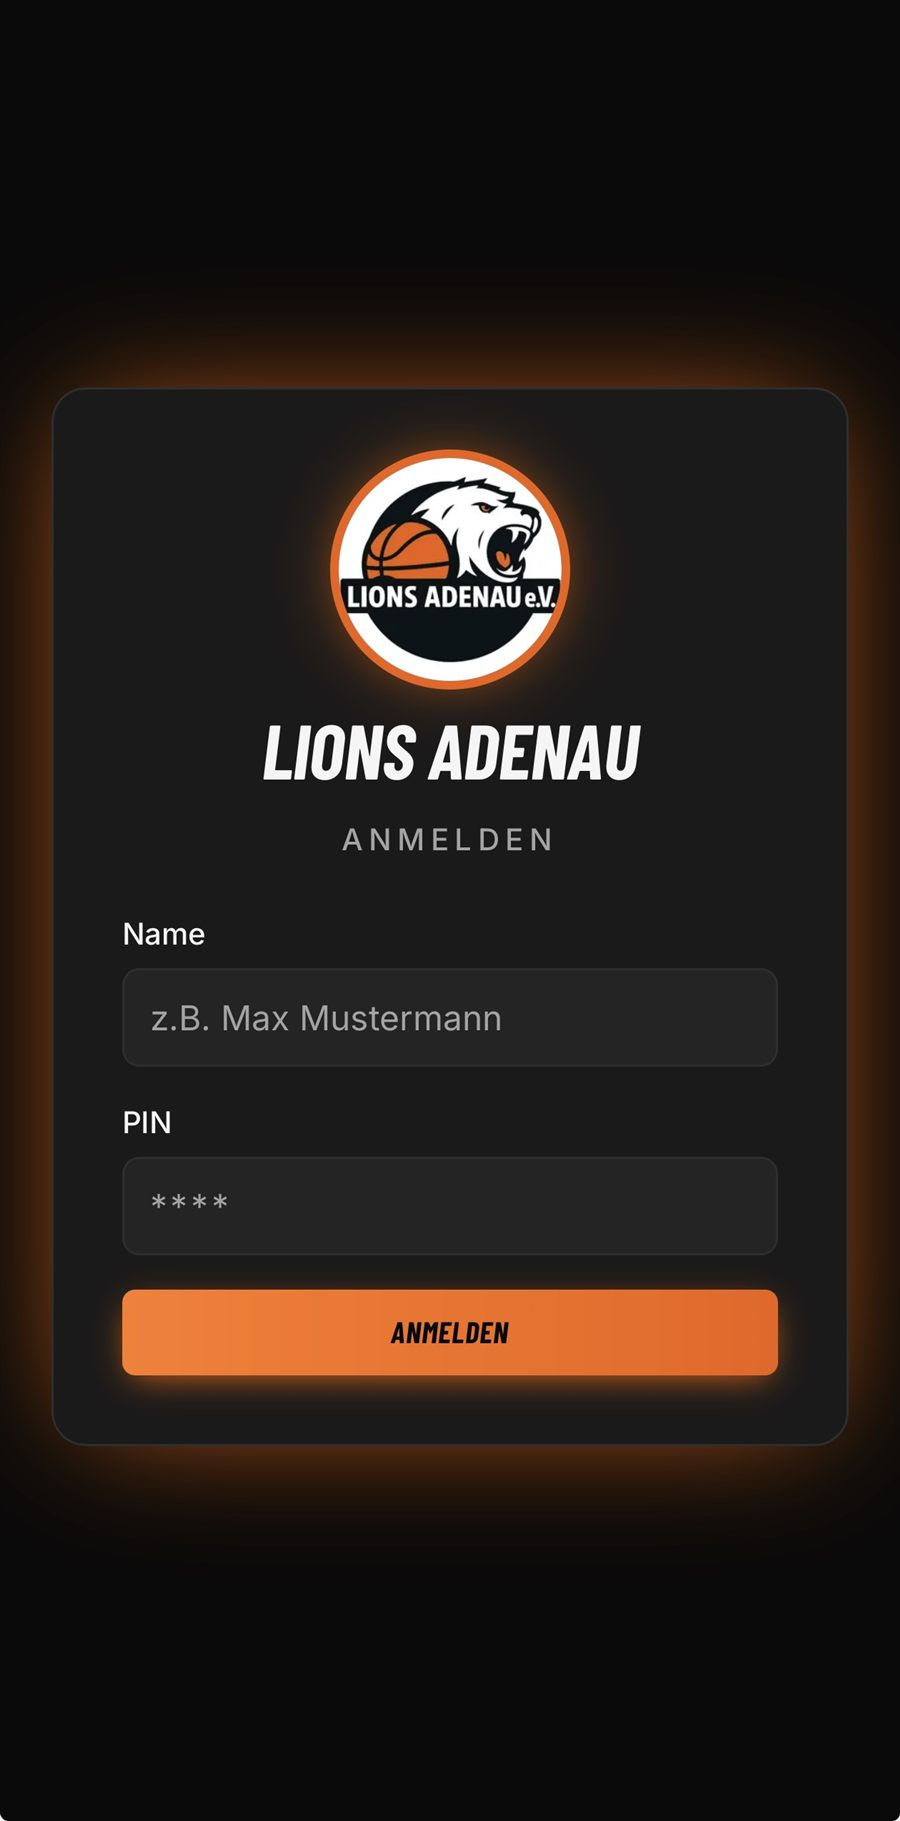
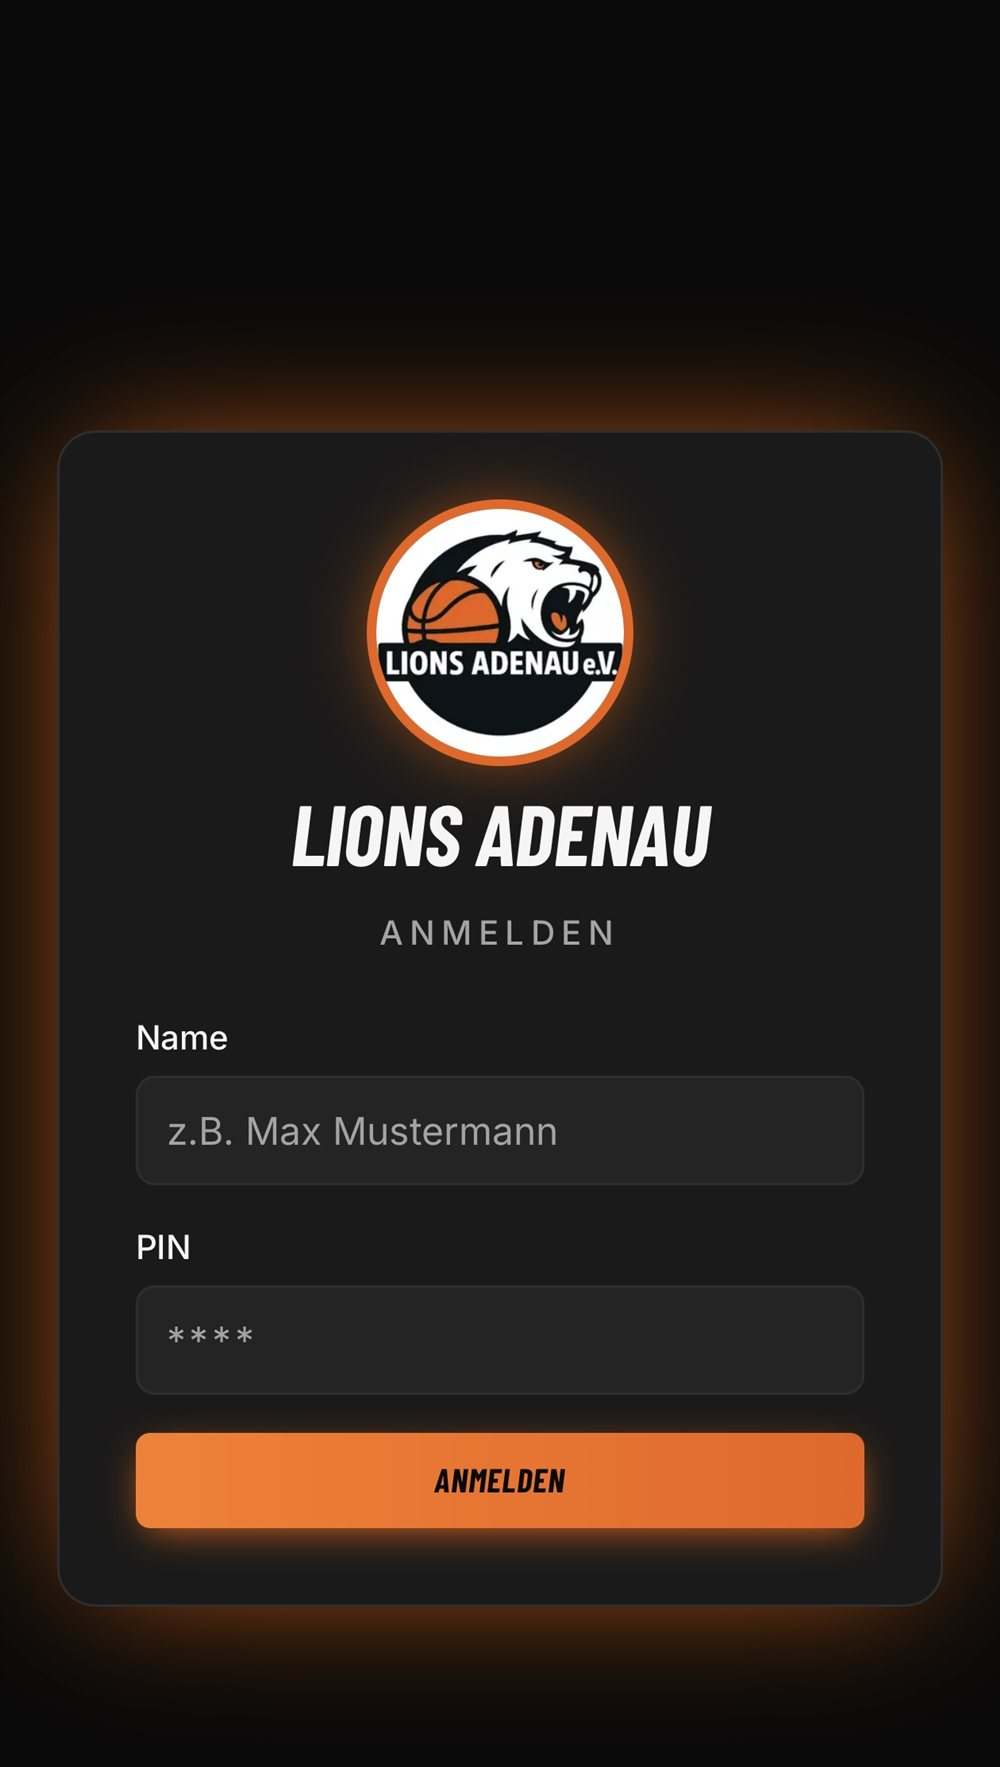
Fix: Lions-Adenau-Bilder haben jetzt von Haus aus dasselbe Seitenverhaeltnis (ueberschuessigen schwarzen Leerraum beim Login-Screenshot weggeschnitten, kein Bildinhalt betroffen), dadurch keine CSS-Height-Krücke mehr noetig

diff --git a/index.html b/index.html
@@ -199,8 +199,8 @@
           </span>
         </summary>
         <div class="reference-body">
-          <div class="reference-images reference-images--equal">
-            <img src="assets/img/ref-lions-1.jpg" alt="Login-Bildschirm der Lions Adenau App mit Vereinslogo" loading="lazy" width="900" height="1821">
+          <div class="reference-images">
+            <img src="assets/img/ref-lions-1.jpg" alt="Login-Bildschirm der Lions Adenau App mit Vereinslogo" loading="lazy" width="1000" height="1767">
             <img src="assets/img/ref-lions-2.jpg" alt="Trainingsübersicht der Lions Adenau App mit Zu- und Absagen" loading="lazy" width="1000" height="1767">
           </div>
           <dl class="case-study">

diff --git a/styles.css b/styles.css
@@ -512,13 +512,6 @@ main a:not(.btn):not(.logo):hover {
     height: 100%;
     object-fit: cover;
   }
-
-  .reference-images--equal img {
-    height: 420px;
-    width: 100%;
-    object-fit: contain;
-    background: var(--color-bg);
-  }
 }
 
 /* ---- Ueber mich ---- */
